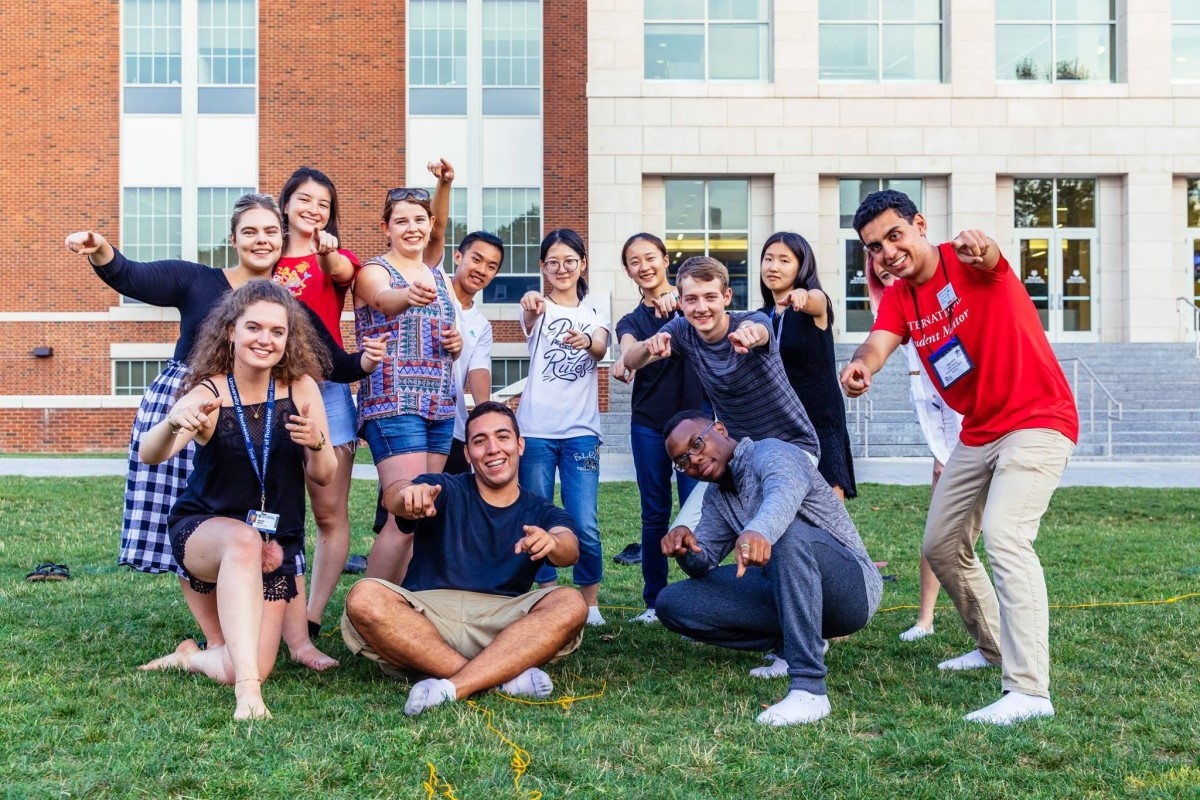
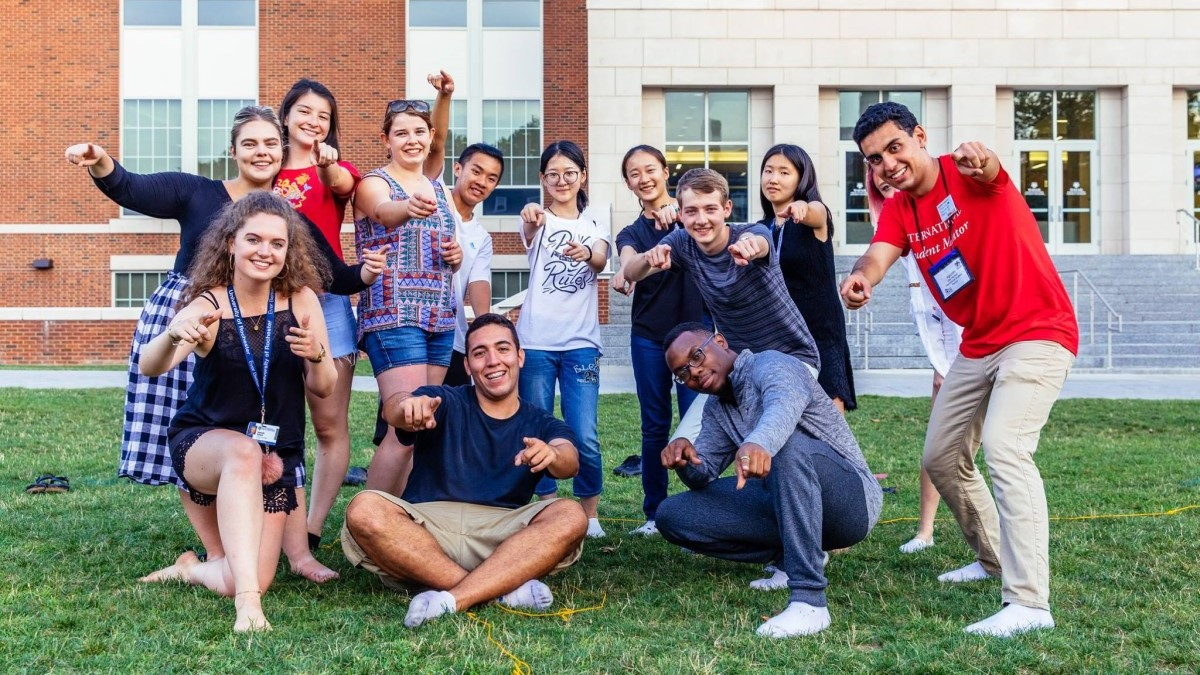
Changed hero images

diff --git a/src/components/home/notLoggedIn/HomeCTA.vue b/src/components/home/notLoggedIn/HomeCTA.vue
@@ -25,7 +25,7 @@
                 </div>
                 <div class="carousel-item" data-interval="3000">
                     <img src="@/assets/images/slides_3.jpg" class="d-block w-100" alt="">
-                    <div class="carousel-caption text-dark">
+                    <div class="carousel-caption">
                         <h1 class="font-weight-bold cta">Get Access to Unlimited Educational Resources. Everywhere, Every time!</h1>
                         <p class="subhead">Premium access to loads of resources ranging from courses, tests e.t.c.</p>
                         <button class="primary-button ctaButton"><router-link class="text-decoration-none text-white" to="/courses">Get Access</router-link></button>
@@ -38,15 +38,24 @@
 
 <style lang="scss" scoped>
     img{
-        max-height: 90vh;
         min-height: 40vh;
     }
     .carousel-caption{
+        left: 0;
+        bottom: 0;
         height: 100%;
+        width: 100%;
         display: flex;
+        padding: 0 0.5rem;
         flex-direction: column;
         justify-content: center;
         align-items: center;
+        background: #00000044;
+    }
+    @media (min-width: 768px){
+        .carousel-caption{
+            padding: 0 8rem;
+        }
     }
     .ctaButton{
         background: $primary-dark;
